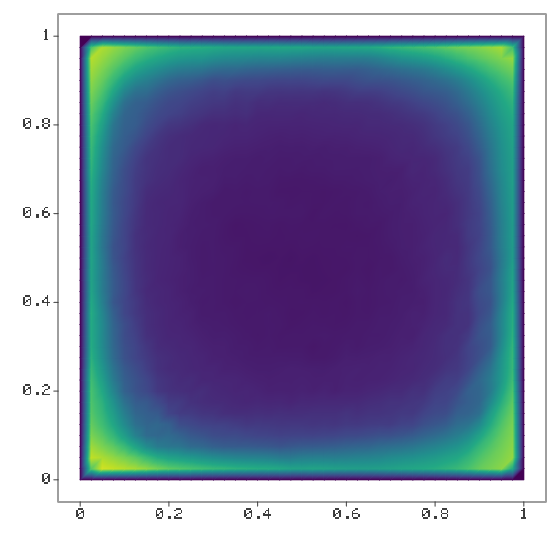
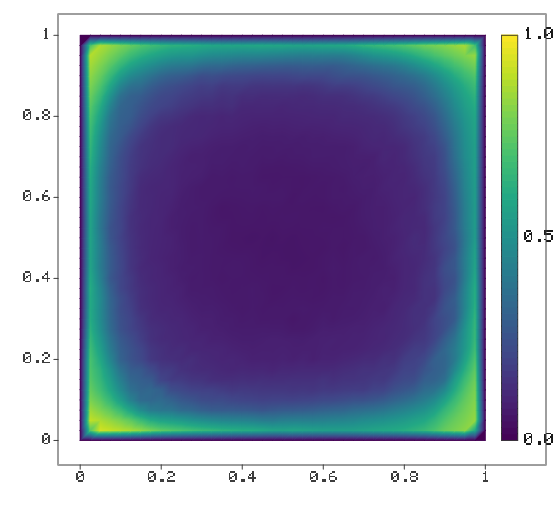
frog_compression: per-figure captions and colorbars
Figures may now write a <stem>.caption.md next to themselves; the docs
generator emits it above the image (captions are markdown text, so unlike
figure bytes they ARE covered by the freshness check). The compression
example captions all four figures, including the boundary finding Nick
spotted: with equal total storage the BRLR handles the near-boundary
columns better than the global factorization, because a Frobenius-optimal
global budget under-serves small-amplitude columns while the per-block
relative tolerance protects them by construction.

Field figures (block ranks, both column-error maps) gain vertical viridis
colorbars drawn with Plot2D primitives (colormap_viridis segments + text
labels), sharing their vmin/vmax with the field rendering.

Claude-Session: https://claude.ai/code/session_01VTAH2T8UNKHRv23UMqBCat

diff --git a/examples/frog_compression.cpp b/examples/frog_compression.cpp
@@ -93,6 +93,44 @@ int median_int( std::vector<int> v )
     return v[v.size() / 2];
 }
 
+// Vertical viridis colorbar just right of the unit square, labeled at the
+// bottom / middle / top values.
+void add_colorbar( Plot2D& fig, double vmin, double vmax, const char* fmt )
+{
+    const double x0 = 1.04;
+    const double x1 = 1.08;
+    const int nseg = 64;
+    for ( int ii = 0; ii < nseg; ++ii )
+    {
+        const double t0 = ii / double(nseg);
+        const double t1 = ( ii + 1 ) / double(nseg);
+        fig.add(Box{Eigen::Vector2d(x0, t0), Eigen::Vector2d(x1, t1 + 0.002)},
+                Style{colors::transparent(), 0.0, colormap_viridis(( t0 + t1 ) / 2.0)});
+    }
+    fig.add(Box{Eigen::Vector2d(x0, 0.0), Eigen::Vector2d(x1, 1.0)},
+            Style{with_alpha(colors::black(), 0.8), 1.0, colors::transparent()});
+    for ( double t : { 0.0, 0.5, 1.0 } )
+    {
+        char label[32];
+        std::snprintf(label, sizeof(label), fmt, vmin + t * ( vmax - vmin ));
+        fig.add_text(Eigen::Vector2d(x1 + 0.015, t - 0.01), label, 12.0, colors::black(),
+                     TextAnchor::start);
+    }
+}
+
+// The docs generator emits <stem>.caption.md above the matching figure.
+void write_caption( const char* figure_stem, const std::string& text )
+{
+    char path[128];
+    std::snprintf(path, sizeof(path), "%s.caption.md", figure_stem);
+    std::FILE* f = std::fopen(path, "w");
+    if ( f )
+    {
+        std::fputs(text.c_str(), f);
+        std::fclose(f);
+    }
+}
+
 } // end anonymous namespace
 
 int main()
@@ -315,6 +353,19 @@ int main()
         fig.save_png("01_partition_and_target_set.png", 560);
         std::printf("highlighted block: %zu sources couple to %zu of %d targets\n",
                     blk.source_ids.size(), blk.target_ids.size(), nv);
+
+        char caption[700];
+        std::snprintf(caption, sizeof(caption),
+            "**The source partition and one block's reach.** Eight subdomains "
+            "(colors) from recursive median bisection of the source points. For "
+            "the highlighted block (black): the thin ellipses are a sample of its "
+            "support ellipsoids (every 24th source), and the blue halos mark the "
+            "%zu of %d target vertices where its kernel columns can be nonzero. "
+            "Every entry outside that set is exactly zero — the block sparsity is "
+            "lossless, and all approximation error comes from the per-block "
+            "truncation.",
+            blk.target_ids.size(), nv);
+        write_caption("01_partition_and_target_set", caption);
     }
 
     // ---- Figure: per-block rank as a map over the source domain ----
@@ -330,8 +381,19 @@ int main()
         Plot2D fig;
         FieldOptions opts;
         opts.vmin = 0.0;
+        opts.vmax = rank_field.maxCoeff();
         draw_cg1_field(fig, F->target_mesh(), rank_field, opts);
+        add_colorbar(fig, opts.vmin, opts.vmax, "%.0f");
         fig.save_png("02_block_ranks.png", 560);
+
+        write_caption("02_block_ranks",
+            "**Per-block compressed rank at the headline tolerance (rtol 1e-2), "
+            "as a map over the source domain.** Each subdomain is colored by the "
+            "rank of its block after Frobenius truncation. Rank tracks how much "
+            "the kernel varies across the block relative to the ellipsoid size: "
+            "the middle columns, where the support ellipsoids are large and "
+            "rotate quickly, need noticeably higher rank than the calmer left "
+            "and right edges.");
     }
 
     // ---- Figures: column-error maps, BRLR vs GLR at equal storage ----
@@ -352,10 +414,33 @@ int main()
         opts.vmax = 1.0;
         Plot2D fig_b;
         draw_cg1_field(fig_b, F->target_mesh(), err_brlr, opts);
+        add_colorbar(fig_b, 0.0, 1.0, "%.1f");
         fig_b.save_png("03_col_err_brlr.png", 560);
         Plot2D fig_g;
         draw_cg1_field(fig_g, F->target_mesh(), err_glr, opts);
+        add_colorbar(fig_g, 0.0, 1.0, "%.1f");
         fig_g.save_png("04_col_err_glr_equal_storage.png", 560);
+
+        char caption[700];
+        std::snprintf(caption, sizeof(caption),
+            "**BRLR relative column error at rtol 1e-2.** The error of each "
+            "kernel column, plotted at its source location (relative per column, "
+            "denominators floored at 1%% of the largest column norm, clipped at "
+            "1; shared 0..1 color scale with the next figure). The per-block "
+            "relative tolerance spreads accuracy uniformly — including the "
+            "small-amplitude columns near the boundary.");
+        write_caption("03_col_err_brlr", caption);
+
+        std::snprintf(caption, sizeof(caption),
+            "**Global low rank with the same total storage (rank %d): the "
+            "locality comparison.** A single Frobenius-optimal factorization "
+            "spends its budget on the dominant interior structure and "
+            "under-serves the small-amplitude, fast-rotating columns near the "
+            "boundary — the bright ring. The block format protects them by "
+            "construction: each block meets the tolerance relative to its own "
+            "norm.",
+            rank_glr);
+        write_caption("04_col_err_glr_equal_storage", caption);
     }
 
     return 0;

diff --git a/docs/generate_examples.py b/docs/generate_examples.py
@@ -49,22 +49,32 @@ def split_intro(source: str):
     return title, intro_md, "\n".join(lines[body_start:])
 
 
-def run_example(exe: Path, scratch: Path) -> tuple[str, list[Path]]:
+def run_example(exe: Path, scratch: Path) -> tuple[str, list[Path], dict[str, str]]:
     result = subprocess.run([str(exe)], cwd=scratch, capture_output=True, text=True, timeout=600)
     if result.returncode != 0:
         sys.exit(f"example {exe.name} failed:\n{result.stdout}\n{result.stderr}")
     figures = sorted(p for p in scratch.iterdir() if p.suffix in (".svg", ".png"))
-    return result.stdout, figures
+    # A figure may write a caption next to itself as <stem>.caption.md; the
+    # caption is emitted above the image (and, unlike figure bytes, IS
+    # covered by the freshness check).
+    captions = {}
+    for fig in figures:
+        caption_file = fig.with_name(fig.stem + ".caption.md")
+        if caption_file.exists():
+            captions[fig.name] = caption_file.read_text().strip()
+    return result.stdout, figures, captions
 
 
 def build_page(name: str, title: str, intro: str, body: str, stdout: str,
-               figure_names: list[str]) -> str:
+               figure_names: list[str], captions: dict[str, str]) -> str:
     parts = [f"# {title}", ""]
     if intro:
         parts += [intro, ""]
     if figure_names:
         parts += ["## Figures", ""]
         for fig in figure_names:
+            if fig in captions:
+                parts += [captions[fig], ""]
             parts += [f"![{fig}](../img/{name}__{fig})", ""]
     parts += ["## Program", "", "```cpp", body.rstrip(), "```", ""]
     parts += ["## Output", "", "```text", stdout.rstrip(), "```", ""]
@@ -101,14 +111,14 @@ def main() -> int:
 
         with tempfile.TemporaryDirectory() as tmp:
             scratch = Path(tmp)
-            stdout, figures = run_example(exe, scratch)
+            stdout, figures, captions = run_example(exe, scratch)
             figure_names = []
             for fig in figures:
                 target = IMG_DIR / f"{name}__{fig.name}"
                 shutil.copyfile(fig, target)
                 figure_names.append(fig.name)
 
-        page = build_page(name, title, intro, body, stdout, figure_names)
+        page = build_page(name, title, intro, body, stdout, figure_names, captions)
         (PAGES_DIR / f"{name}.md").write_text(page)
         index_lines.append(f"- [{title}](examples/{name}.md)")
         print(f"generated docs/examples/{name}.md ({len(figure_names)} figures)")

diff --git a/docs/examples/frog_compression.md b/docs/examples/frog_compression.md
@@ -37,11 +37,19 @@ compilers — is exercised in the test suite instead.
 
 ## Figures
 
+**The source partition and one block's reach.** Eight subdomains (colors) from recursive median bisection of the source points. For the highlighted block (black): the thin ellipses are a sample of its support ellipsoids (every 24th source), and the blue halos mark the 720 of 1681 target vertices where its kernel columns can be nonzero. Every entry outside that set is exactly zero — the block sparsity is lossless, and all approximation error comes from the per-block truncation.
+
 ![01_partition_and_target_set.png](../img/frog_compression__01_partition_and_target_set.png)
+
+**Per-block compressed rank at the headline tolerance (rtol 1e-2), as a map over the source domain.** Each subdomain is colored by the rank of its block after Frobenius truncation. Rank tracks how much the kernel varies across the block relative to the ellipsoid size: the middle columns, where the support ellipsoids are large and rotate quickly, need noticeably higher rank than the calmer left and right edges.
 
 ![02_block_ranks.png](../img/frog_compression__02_block_ranks.png)
 
+**BRLR relative column error at rtol 1e-2.** The error of each kernel column, plotted at its source location (relative per column, denominators floored at 1% of the largest column norm, clipped at 1; shared 0..1 color scale with the next figure). The per-block relative tolerance spreads accuracy uniformly — including the small-amplitude columns near the boundary.
+
 ![03_col_err_brlr.png](../img/frog_compression__03_col_err_brlr.png)
+
+**Global low rank with the same total storage (rank 161): the locality comparison.** A single Frobenius-optimal factorization spends its budget on the dominant interior structure and under-serves the small-amplitude, fast-rotating columns near the boundary — the bright ring. The block format protects them by construction: each block meets the tolerance relative to its own norm.
 
 ![04_col_err_glr_equal_storage.png](../img/frog_compression__04_col_err_glr_equal_storage.png)
 
@@ -104,6 +112,44 @@ int median_int( std::vector<int> v )
 {
     std::sort(v.begin(), v.end());
     return v[v.size() / 2];
+}
+
+// Vertical viridis colorbar just right of the unit square, labeled at the
+// bottom / middle / top values.
+void add_colorbar( Plot2D& fig, double vmin, double vmax, const char* fmt )
+{
+    const double x0 = 1.04;
+    const double x1 = 1.08;
+    const int nseg = 64;
+    for ( int ii = 0; ii < nseg; ++ii )
+    {
+        const double t0 = ii / double(nseg);
+        const double t1 = ( ii + 1 ) / double(nseg);
+        fig.add(Box{Eigen::Vector2d(x0, t0), Eigen::Vector2d(x1, t1 + 0.002)},
+                Style{colors::transparent(), 0.0, colormap_viridis(( t0 + t1 ) / 2.0)});
+    }
+    fig.add(Box{Eigen::Vector2d(x0, 0.0), Eigen::Vector2d(x1, 1.0)},
+            Style{with_alpha(colors::black(), 0.8), 1.0, colors::transparent()});
+    for ( double t : { 0.0, 0.5, 1.0 } )
+    {
+        char label[32];
+        std::snprintf(label, sizeof(label), fmt, vmin + t * ( vmax - vmin ));
+        fig.add_text(Eigen::Vector2d(x1 + 0.015, t - 0.01), label, 12.0, colors::black(),
+                     TextAnchor::start);
+    }
+}
+
+// The docs generator emits <stem>.caption.md above the matching figure.
+void write_caption( const char* figure_stem, const std::string& text )
+{
+    char path[128];
+    std::snprintf(path, sizeof(path), "%s.caption.md", figure_stem);
+    std::FILE* f = std::fopen(path, "w");
+    if ( f )
+    {
+        std::fputs(text.c_str(), f);
+        std::fclose(f);
+    }
 }
 
 } // end anonymous namespace
@@ -328,6 +374,19 @@ int main()
         fig.save_png("01_partition_and_target_set.png", 560);
         std::printf("highlighted block: %zu sources couple to %zu of %d targets\n",
                     blk.source_ids.size(), blk.target_ids.size(), nv);
+
+        char caption[700];
+        std::snprintf(caption, sizeof(caption),
+            "**The source partition and one block's reach.** Eight subdomains "
+            "(colors) from recursive median bisection of the source points. For "
+            "the highlighted block (black): the thin ellipses are a sample of its "
+            "support ellipsoids (every 24th source), and the blue halos mark the "
+            "%zu of %d target vertices where its kernel columns can be nonzero. "
+            "Every entry outside that set is exactly zero — the block sparsity is "
+            "lossless, and all approximation error comes from the per-block "
+            "truncation.",
+            blk.target_ids.size(), nv);
+        write_caption("01_partition_and_target_set", caption);
     }
 
     // ---- Figure: per-block rank as a map over the source domain ----
@@ -343,8 +402,19 @@ int main()
         Plot2D fig;
         FieldOptions opts;
         opts.vmin = 0.0;
+        opts.vmax = rank_field.maxCoeff();
         draw_cg1_field(fig, F->target_mesh(), rank_field, opts);
+        add_colorbar(fig, opts.vmin, opts.vmax, "%.0f");
         fig.save_png("02_block_ranks.png", 560);
+
+        write_caption("02_block_ranks",
+            "**Per-block compressed rank at the headline tolerance (rtol 1e-2), "
+            "as a map over the source domain.** Each subdomain is colored by the "
+            "rank of its block after Frobenius truncation. Rank tracks how much "
+            "the kernel varies across the block relative to the ellipsoid size: "
+            "the middle columns, where the support ellipsoids are large and "
+            "rotate quickly, need noticeably higher rank than the calmer left "
+            "and right edges.");
     }
 
     // ---- Figures: column-error maps, BRLR vs GLR at equal storage ----
@@ -365,10 +435,33 @@ int main()
         opts.vmax = 1.0;
         Plot2D fig_b;
         draw_cg1_field(fig_b, F->target_mesh(), err_brlr, opts);
+        add_colorbar(fig_b, 0.0, 1.0, "%.1f");
         fig_b.save_png("03_col_err_brlr.png", 560);
         Plot2D fig_g;
         draw_cg1_field(fig_g, F->target_mesh(), err_glr, opts);
+        add_colorbar(fig_g, 0.0, 1.0, "%.1f");
         fig_g.save_png("04_col_err_glr_equal_storage.png", 560);
+
+        char caption[700];
+        std::snprintf(caption, sizeof(caption),
+            "**BRLR relative column error at rtol 1e-2.** The error of each "
+            "kernel column, plotted at its source location (relative per column, "
+            "denominators floored at 1%% of the largest column norm, clipped at "
+            "1; shared 0..1 color scale with the next figure). The per-block "
+            "relative tolerance spreads accuracy uniformly — including the "
+            "small-amplitude columns near the boundary.");
+        write_caption("03_col_err_brlr", caption);
+
+        std::snprintf(caption, sizeof(caption),
+            "**Global low rank with the same total storage (rank %d): the "
+            "locality comparison.** A single Frobenius-optimal factorization "
+            "spends its budget on the dominant interior structure and "
+            "under-serves the small-amplitude, fast-rotating columns near the "
+            "boundary — the bright ring. The block format protects them by "
+            "construction: each block meets the tolerance relative to its own "
+            "norm.",
+            rank_glr);
+        write_caption("04_col_err_glr_equal_storage", caption);
     }
 
     return 0;